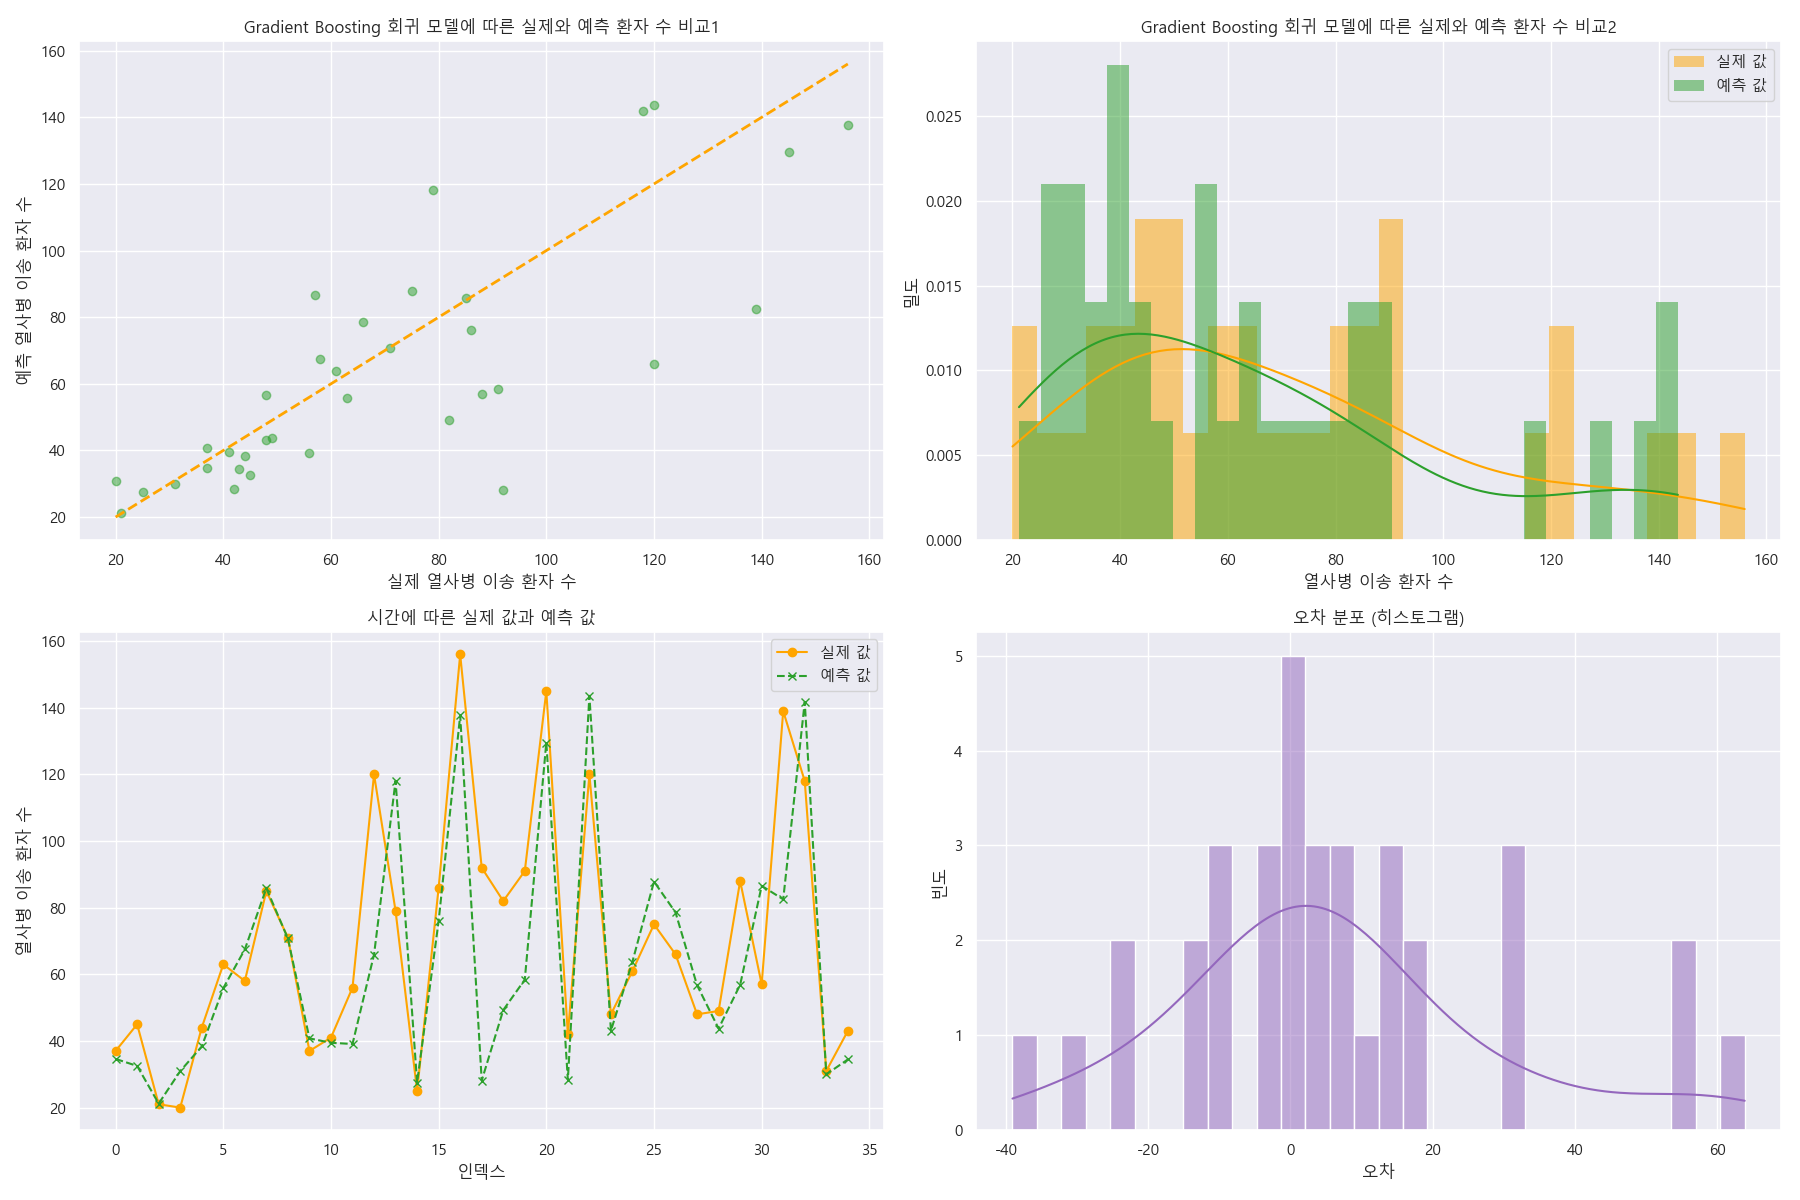
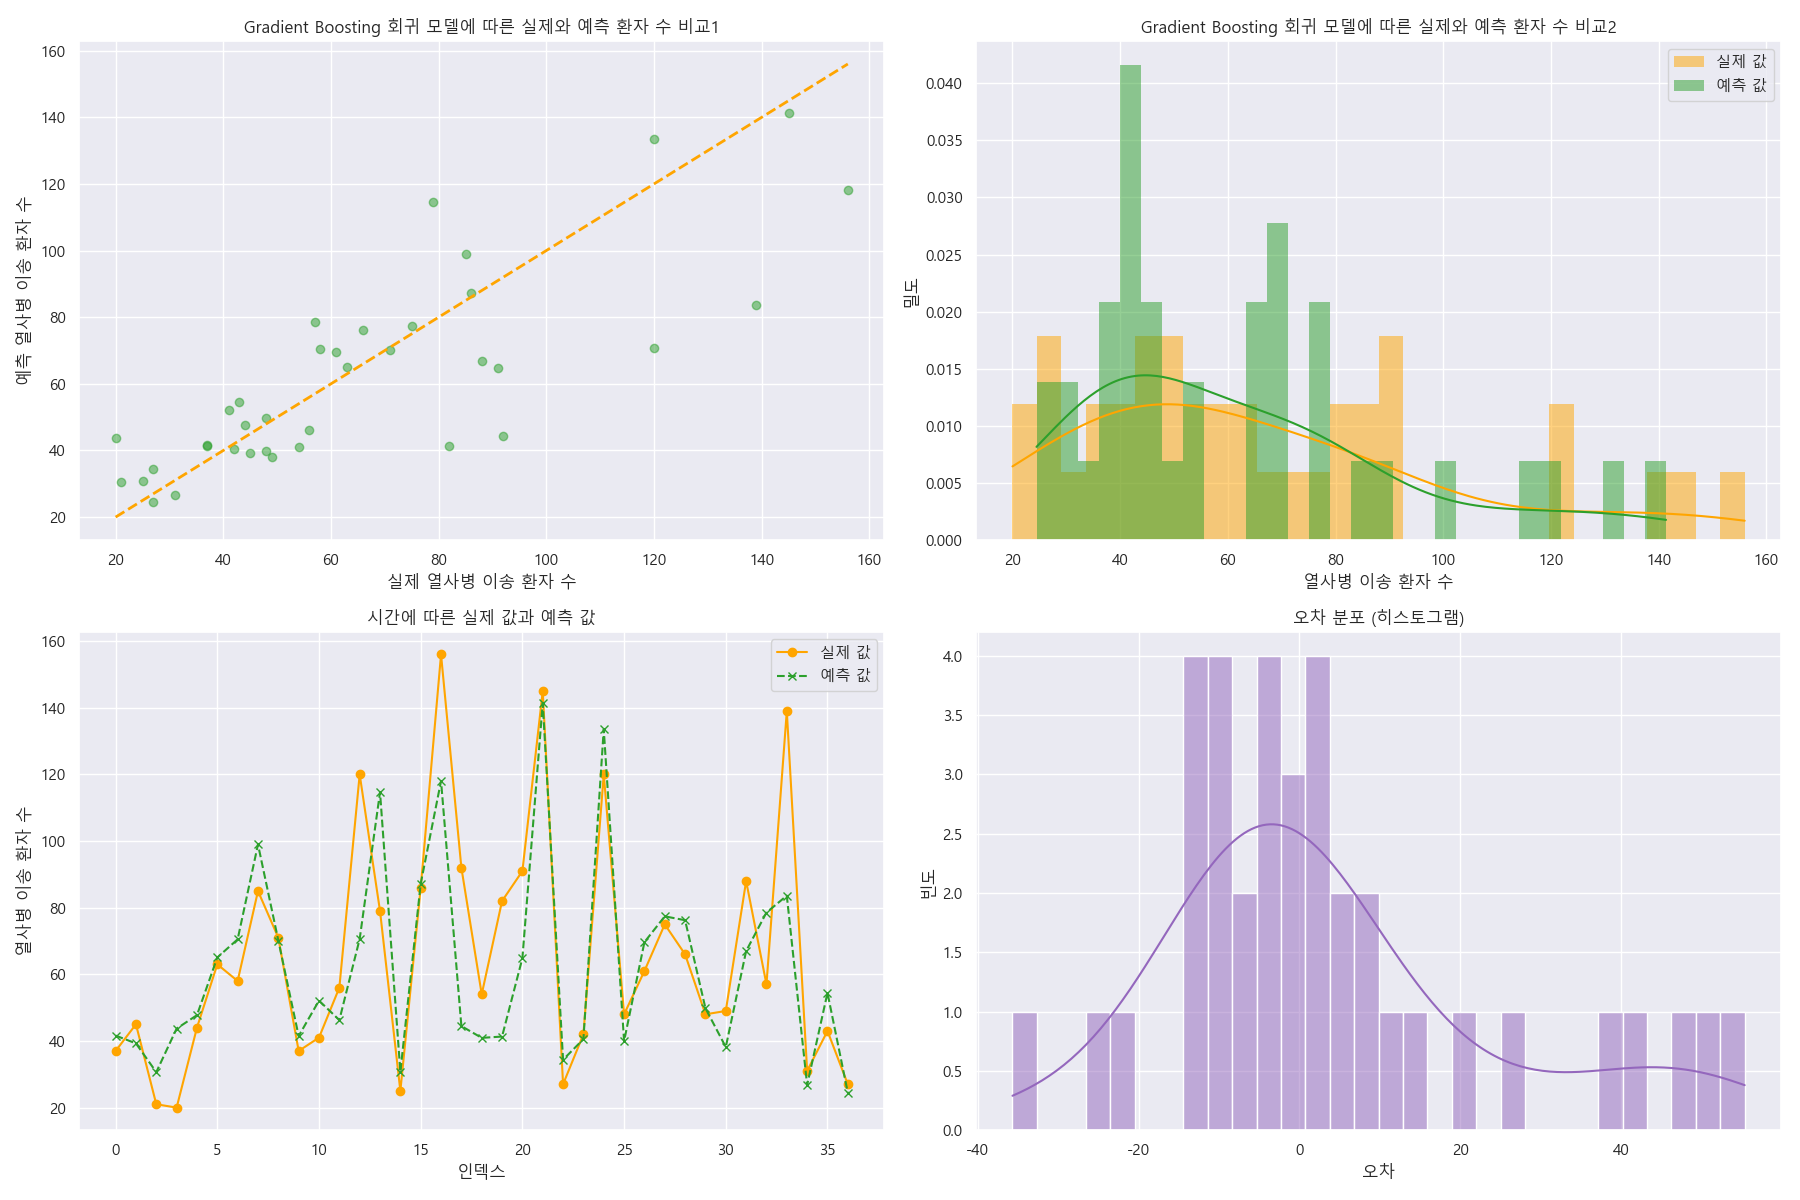
d

diff --git a/Project_02.py b/Project_02.py
@@ -3,10 +3,11 @@ import numpy as np
 import matplotlib.pyplot as plt
 import matplotlib
 import seaborn as sns
-from sklearn.model_selection import train_test_split, KFold
-from sklearn.ensemble import GradientBoostingRegressor
+from sklearn.model_selection import train_test_split, KFold, GridSearchCV
+from sklearn.ensemble import GradientBoostingRegressor, RandomForestRegressor
 from sklearn.metrics import mean_squared_error, r2_score, mean_absolute_error
 from sklearn.preprocessing import StandardScaler
+from sklearn.model_selection import learning_curve, validation_curve
 sns.set_theme(style='darkgrid')
 
 # 1. 훈련 데이터 로드
@@ -36,7 +37,6 @@ test_header = ['1날짜 및 시간', '2이송 인원', '3최고기온', '4평균
 train_df.columns = train_header
 test_df.columns = test_header
 
-
 # 4. 날짜 및 시간 열 변환
 def process_datetime(df):
     df['1날짜 및 시간'] = pd.to_datetime(df['1날짜 및 시간'], format='%m/%d/%Y %I:%M:%S %p')
@@ -45,7 +45,6 @@ def process_datetime(df):
     df['Day'] = df['1날짜 및 시간'].dt.day
     df['Hour'] = df['1날짜 및 시간'].dt.hour
     df.drop(columns=['1날짜 및 시간'], inplace=True)  # 원본 열 삭제
-
 
 process_datetime(train_df)
 process_datetime(test_df)
@@ -67,18 +66,34 @@ X_train = scaler.fit_transform(X_train)
 X_test = scaler.transform(X_test)
 
 # 6. KFold 교차검증 설정 및 모델 훈련
-# 데이터를 5개의 폴드로 나누고 각 폴드를 검증
 kf = KFold(n_splits=5, shuffle=True, random_state=42)
 mse_list = []
 rmse_list = []
 mae_list = []
 r2_list = []
 
+# 하이퍼파라미터 튜닝을 위한 GridSearchCV
+param_grid = {
+    'n_estimators': [100, 200],
+    'learning_rate': [0.01, 0.1, 0.2],
+    'max_depth': [3, 5, 7]
+}
+
+grid_search = GridSearchCV(GradientBoostingRegressor(random_state=42), param_grid, cv=kf, scoring='neg_mean_squared_error')
+grid_search.fit(X_train, y_train)
+best_params = grid_search.best_params_
+
+print(f"Best parameters from GridSearchCV: {best_params}")
+
+# 모델 훈련 및 평가
 for train_index, val_index in kf.split(X_train):
     X_train_fold, X_val_fold = X_train[train_index], X_train[val_index]
     y_train_fold, y_val_fold = y_train.iloc[train_index], y_train.iloc[val_index]
 
-    model = GradientBoostingRegressor(n_estimators=100, random_state=42)
+    model = GradientBoostingRegressor(n_estimators=best_params['n_estimators'],
+                                      learning_rate=best_params['learning_rate'],
+                                      max_depth=best_params['max_depth'],
+                                      random_state=42)
     model.fit(X_train_fold, y_train_fold)
 
     y_val_pred = model.predict(X_val_fold)
@@ -97,7 +112,10 @@ print(f'KFold Cross-Validation R^2: {np.mean(r2_list):.2f}')
 print('\n')
 
 # 7. 전체 훈련 데이터로 모델 훈련
-model = GradientBoostingRegressor(n_estimators=100, random_state=42)
+model = GradientBoostingRegressor(n_estimators=best_params['n_estimators'],
+                                  learning_rate=best_params['learning_rate'],
+                                  max_depth=best_params['max_depth'],
+                                  random_state=42)
 model.fit(X_train, y_train)
 
 # 8. 예측
@@ -127,10 +145,10 @@ matplotlib.rcParams['font.family'] = 'Malgun Gothic'
 matplotlib.rcParams['axes.unicode_minus'] = False    # 음수 기호 깨짐 방지
 
 # 필터링된 데이터 생성 (값이 20 이상 160 이하인 것만 포함)
-filtered_indices = [i for i in range(len(y_test)) if 20 <= y_test[i] <= 160 and 20 <= y_test_pred[i] <= 160]
-filtered_actual = [y_test[i] for i in filtered_indices]
+filtered_indices = [i for i in range(len(y_test)) if 20 <= y_test.iloc[i] <= 160 and 20 <= y_test_pred[i] <= 160]
+filtered_actual = [y_test.iloc[i] for i in filtered_indices]
 filtered_predicted = [y_test_pred[i] for i in filtered_indices]
-filtered_errors = [y_test[i] - y_test_pred[i] for i in filtered_indices]
+filtered_errors = [y_test.iloc[i] - y_test_pred[i] for i in filtered_indices]
 
 # 색상 설정
 color_actual = 'orange'
@@ -173,7 +191,57 @@ plt.xlabel('오차')
 plt.ylabel('빈도')
 plt.title('오차 분포 (히스토그램)')
 
-
 plt.tight_layout()
 plt.savefig('./result/GradientBoosting_result.png')
+plt.show()
+
+# 12. 추가 모델 (Random Forest) 훈련 및 평가
+rf_model = RandomForestRegressor(n_estimators=100, random_state=42)
+rf_model.fit(X_train, y_train)
+y_test_pred_rf = rf_model.predict(X_test)
+
+# RandomForest 성능 평가
+mse_rf = mean_squared_error(y_test, y_test_pred_rf)
+rmse_rf = np.sqrt(mse_rf)
+mae_rf = mean_absolute_error(y_test, y_test_pred_rf)
+r2_rf = r2_score(y_test, y_test_pred_rf)
+
+print("-----Random Forest 성능평가 결과-----")
+print(f'MSE: {mse_rf:.2f}')
+print(f'RMSE: {rmse_rf:.2f}')
+print(f'MAE: {mae_rf:.2f}')
+print(f'R^2: {r2_rf:.2f}')
+
+# 13. 학습곡선 및 검증곡선 시각화
+train_sizes, train_scores, test_scores = learning_curve(GradientBoostingRegressor(n_estimators=best_params['n_estimators'],
+                                                                                 learning_rate=best_params['learning_rate'],
+                                                                                 max_depth=best_params['max_depth'],
+                                                                                 random_state=42),
+                                                        X_train, y_train, cv=kf, scoring='neg_mean_squared_error', n_jobs=-1)
+
+plt.figure(figsize=(18, 6))
+
+# 학습곡선
+plt.subplot(1, 2, 1)
+plt.plot(train_sizes, -train_scores.mean(axis=1), 'o-', color='r', label='Training error')
+plt.plot(train_sizes, -test_scores.mean(axis=1), 'o-', color='g', label='Validation error')
+plt.title('Learning Curve')
+plt.xlabel('Training examples')
+plt.ylabel('MSE')
+plt.legend()
+
+# 검증곡선
+param_range = [100, 200]
+train_scores, test_scores = validation_curve(GradientBoostingRegressor(random_state=42), X_train, y_train, param_name='n_estimators', param_range=param_range, cv=kf, scoring='neg_mean_squared_error', n_jobs=-1)
+
+plt.subplot(1, 2, 2)
+plt.plot(param_range, -train_scores.mean(axis=1), 'o-', color='r', label='Training error')
+plt.plot(param_range, -test_scores.mean(axis=1), 'o-', color='g', label='Validation error')
+plt.title('Validation Curve')
+plt.xlabel('Number of Estimators')
+plt.ylabel('MSE')
+plt.legend()
+
+plt.tight_layout()
+plt.savefig('./result/Learning_Validation_Curves.png')
 plt.show()

diff --git a/Project_01_RandomForest.py b/Project_01_RandomForest.py
@@ -89,7 +89,7 @@ for train_index, val_index in kf.split(X_train):
     r2_list.append(r2_score(y_val_fold, y_val_pred))
 
 # 최종 평균 출력
-print("-----KFold 교차검증 결과-----")
+print("-----Random Forest KFold 교차검증 결과-----")
 print(f'KFold Cross-Validation MSE: {np.mean(mse_list):.2f}')
 print(f'KFold Cross-Validation RMSE: {np.mean(rmse_list):.2f}')
 print(f'KFold Cross-Validation MAE: {np.mean(mae_list):.2f}')
@@ -109,7 +109,7 @@ rmse = np.sqrt(mse)
 mae = mean_absolute_error(y_test, y_test_pred)
 r2 = r2_score(y_test, y_test_pred)
 
-print("-----성능평가 결과-----")
+print("-----Random Forest 성능평가 결과-----")
 print(f'MSE: {mse:.2f}')
 print(f'RMSE: {rmse:.2f}')
 print(f'MAE: {mae:.2f}')
